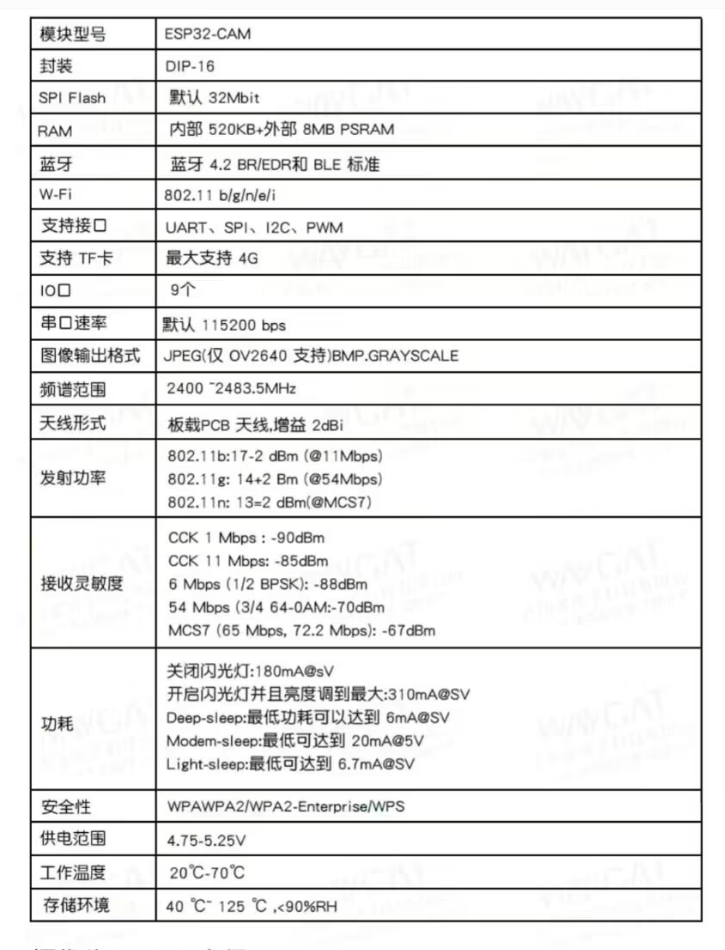
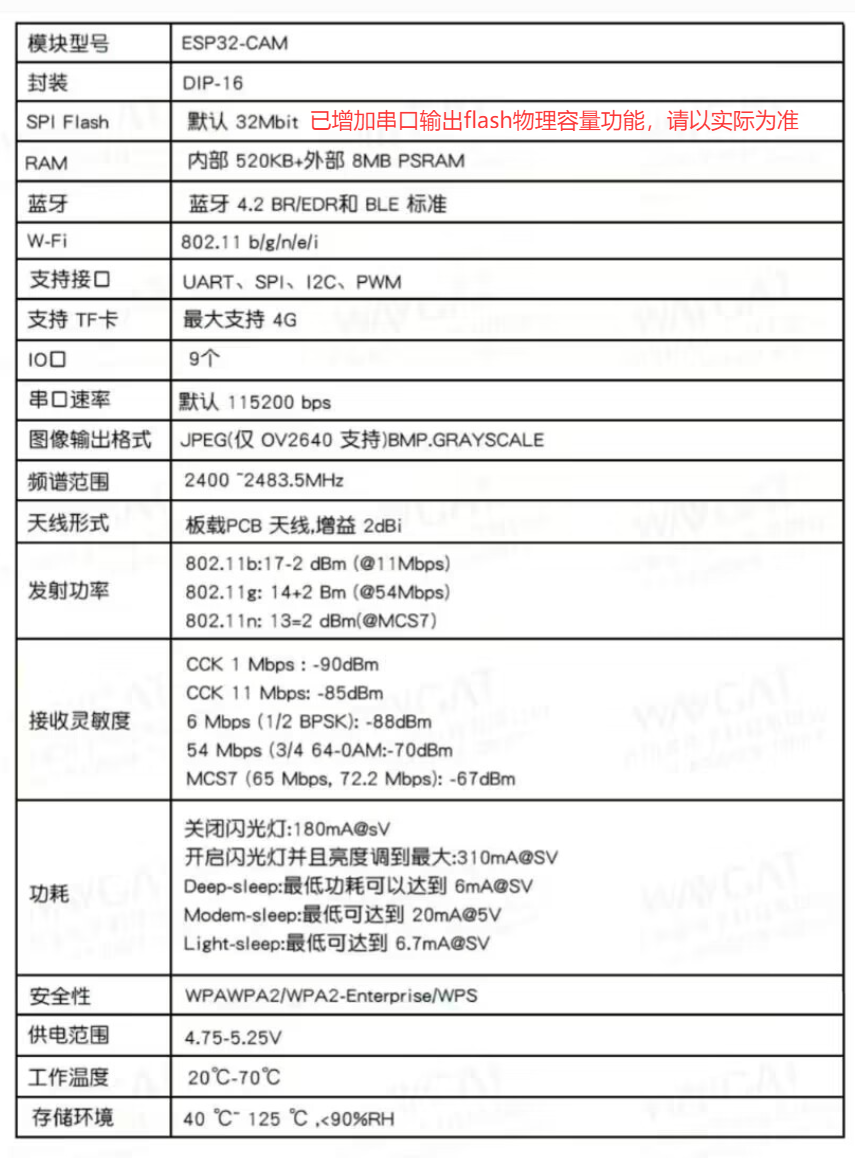
feat: 解决ESP32-CAM Flash容量配置问题并完善README文档
## 主要变更内容

### 1. 解决ESP32-CAM Flash容量相关问题
- 修复分区表总大小超出Flash容量限制问题（2.1MB > 2MB）
- 解决应用程序大小超出factory分区分配空间问题（1.04MB > 1MB）
- 修复ESP-IDF v5.5中spi_flash_get_chip_size隐式声明问题，迁移到新API esp_flash_get_physical_size
- 统一分区表格式，使用十六进制定义容量

### 2. 完善README文档
- 添加详细的分区表配置说明，包括问题描述和解决方案
- 增加PSRAM配置说明，解决摄像头初始化失败问题
- 更新快速上手指南，包含完整的编译烧录前配置步骤
- 补充硬件参数详细信息和注意事项

diff --git a/esp32cam_firmware/main/http_server.c b/esp32cam_firmware/main/http_server.c
@@ -81,11 +81,11 @@ void http_server_start(void) {
         httpd_register_uri_handler(server, &video_uri);
 
         // v5.5兼容的IP地址获取方式
-        esp_netif_t *sta_netif = esp_netif_get_handle_from_ifkey("WIFI_STA_DEF");
+       esp_netif_t *sta_netif = esp_netif_get_handle_from_ifkey("WIFI_STA_DEF");
         if (sta_netif != NULL) {
             esp_netif_ip_info_t ip_info;
             esp_netif_get_ip_info(sta_netif, &ip_info);
-            ESP_LOGI(TAG, "局域网访问地址: http://" IPSTR, IP2STR(&ip_info.ip), HTTP_SERVER_PORT);
+            ESP_LOGI(TAG, "局域网访问地址: http://" IPSTR ":%d", IP2STR(&ip_info.ip), HTTP_SERVER_PORT);
         } else {
             ESP_LOGE(TAG, "无法获取WiFi接口信息");
         }

diff --git a/esp32cam_firmware/main/camera.c b/esp32cam_firmware/main/camera.c
@@ -27,11 +27,11 @@ esp_err_t camera_init_custom(void) {
         .ledc_timer = LEDC_TIMER_0,
         .ledc_channel = LEDC_CHANNEL_0,
         .pixel_format = PIXFORMAT_JPEG,
-        .frame_size = FRAMESIZE_XGA,
+        .frame_size = FRAMESIZE_SVGA,
         /*FRAMESIZE_QVGA (320x240)，FRAMESIZE_VGA (640x480) ，FRAMESIZE_SVGA (800x600)，FRAMESIZE_XGA (1024x768)- 当前设置*/
-        .jpeg_quality = 50,  // JPEG质量30-50，平衡质量与性能
+        .jpeg_quality = 30,  // JPEG质量30-50，平衡质量与性能
         .fb_count = 2,       // 双缓冲减少卡顿
-        .grab_mode = CAMERA_GRAB_WHEN_EMPTY,
+        .grab_mode = CAMERA_GRAB_LATEST,
     };
     
     ESP_LOGI(TAG, "开始初始化摄像头...");

diff --git a/esp32cam_firmware/main/main.c b/esp32cam_firmware/main/main.c
@@ -74,7 +74,7 @@ void app_main(void) {
     ESP_LOGI(TAG, "剩余容量（未分配）: %u 字节 (%.2f MB)", 
              flash_free_size, (float)flash_free_size / (1024 * 1024));
 
-    // 后续原有逻辑（WiFi、摄像头、服务器初始化）
+    //（WiFi、摄像头、服务器初始化）
     wifi_init();
 
     esp_err_t cam_err = camera_init_custom();

diff --git a/esp32cam_firmware/main/wifi.h b/esp32cam_firmware/main/wifi.h
@@ -1,9 +1,9 @@
 #ifndef WIFI_H
 #define WIFI_H
 
-// WiFi配置
-#define WIFI_SSID "Redmi Note 12 Turbo"
-#define WIFI_PWD "88888888"
+// // WiFi配置
+#define WIFI_SSID "YOUR_WIFI_NAME"
+#define WIFI_PWD "YOUR_WIFI_PASSWORD" //若 WiFi 无密码，将WIFI_PWD ""引号内留空即可
 
 // WiFi连接配置
 #define WIFI_MAXIMUM_RETRY 5

diff --git a/esp32cam_firmware/main/http_server.h b/esp32cam_firmware/main/http_server.h
@@ -2,9 +2,9 @@
 #define HTTP_SERVER_H
 
 // HTTP服务器配置
-#define HTTP_SERVER_PORT 8080
-#define HTTP_MAX_OPEN_SOCKETS 5
-#define VIDEO_FPS 30
+#define HTTP_SERVER_PORT 8080 //端口号
+#define HTTP_MAX_OPEN_SOCKETS 1 //最大并发连接数
+#define VIDEO_FPS 30 //帧率
 
 void http_server_start(void);
 

diff --git a/README.md b/README.md
@@ -1,32 +1,126 @@
-# _Sample project_
+# ESP32-CAM + OV2640 轻量监控系统 📹
 
-(See the README.md file in the upper level 'examples' directory for more information about examples.)
+## 展示图
+> - [http视频流测试图](docs\images\esp32cam开发板参数图\http视频流测试图.png)
 
-This is the simplest buildable example. The example is used by command `idf.py create-project`
-that copies the project to user specified path and set it's name. For more information follow the [docs page](https://docs.espressif.com/projects/esp-idf/en/latest/api-guides/build-system.html#start-a-new-project)
+## 项目简介 ✨
+本仓库基于 ESP32-CAM 开发板与 OV2640 摄像头，实现了一套低成本轻量监控系统，支持局域网实时监控、公网访问（内网穿透）及 MQTT 远程控制功能。作为大三计算机专业学生的嵌入式练手项目，代码注重实战性与可维护性，适合作为嵌入式 / 物联网方向的简历项目案例。
 
 
+## 硬件参数速览 📊
 
-## How to use example
-We encourage the users to use the example as a template for the new projects.
-A recommended way is to follow the instructions on a [docs page](https://docs.espressif.com/projects/esp-idf/en/latest/api-guides/build-system.html#start-a-new-project).
+> - [esp32cam外观图](docs\images\esp32cam开发板参数图\esp32cam外观图.jpg)
+### 🖥 ESP32-CAM 模块核心参数
+- （这里是我所购买的esp32cam模块参数，请以自己的开发板为准）
+| 特性 | 详情 |
+|------|------|
+| 处理器 | 双核240MHz ESP32，支持蓝牙4.2 + BLE 🛜 |
+| 存储配置 | 4Mb SPI Flash +520kB RAM + 4MB PSRAM (超大扩展内存) 💾 |
+| WiFi性能 | 2.4GHz频段，支持802.11b/g/n，板载2dBi天线 📶 |
+| 功耗控制 | Deep-sleep模式最低6mA，节能小能手 🌙 |
+| 扩展接口 | 支持TF卡(最大4GB)、UART/SPI/I2C等 🔌 |
+| 供电要求 | 4.75-5.25V，≥1A电源适配器，⚠须注意：输入电源低于5V2A时，图片会有几率出现水纹 ⚡ |
+> 完整硬件参数图：  
+> - [ESP32-CAM开发板简介](docs\images\esp32cam开发板参数图\简介与特点.png)  
+> - [ESP32-CAM开发板参数图](docs\images\esp32cam开发板参数图\详细参数表(实测Flash为4MB).png) 
 
-## Example folder contents
+### 📸 OV2640 摄像头核心参数
+| 特性 | 详情 |
+|------|------|
+| 最高分辨率 | UXGA(1600×1200)@15fps 🚀 |
+| 主流配置 | SVGA(800×600) / VGA(640×480)|
+| 最大帧率 |UXGA(1600*1200)@15 帧；SVGA(800*600)@30帧；CIF(352*288)@60帧 |
+| 输出格式 | 支持JPEG/RGB/YUV等，本项目用JPEG优化传输 📦 |
+| 镜头参数 | F2.0光圈 + 78°广角 + 3.6mm焦距 🔍 |
+| 接口类型 | 8位数据总线 + SCCB控制接口 (类I²C) |
+> 完整硬件参数图：  
+> - [OV2640摄像头参数图](docs\images\esp32cam开发板参数图\OV2640摄像头参数.png)
+> - [OV2640摄像头介绍与特点](docs\images\esp32cam开发板参数图\OV2640摄像头介绍与特点.png)  
 
-The project **sample_project** contains one source file in C language [main.c](main/main.c). The file is located in folder [main](main).
 
-ESP-IDF projects are built using CMake. The project build configuration is contained in `CMakeLists.txt`
-files that provide set of directives and instructions describing the project's source files and targets
-(executable, library, or both). 
+## 固件功能清单 🚀
 
-Below is short explanation of remaining files in the project folder.
+### 核心功能 (已实现)
+- 📹 摄像头采集：固定VGA(640×480)分辨率，JPEG格式输出
+- 🔗 WiFi连接：STA模式自动重连(5次重试)，成功后打印IP
+- 🌐 HTTP服务：8080端口提供视频流，仅支持1台设备查看
 
+### 扩展功能 (待开发)
+- 🌍 内网穿透：Ngrok实现公网访问 (Ngrok免费版已测试完成，部署过程之后完善)
+- 📱 微信小程序：开发配套小程序客户端，支持视频流查看、截图指令发送
+- 📸 远程截图：访问`/snapshot`保存图片到TF卡
+- 📡 MQTT控制：接收指令开关摄像头，降低待机功耗
+
+## 开发环境 🛠
+- 操作系统：Windows 11
+- 开发工具：VSCode
+- 框架版本：ESP-IDF v5.5.0  
+  👉 [官方安装教程https://docs.espressif.com/projects/esp-idf/zh_CN/release-v5.5/esp32/get-started/index.html#get-started-how-to-get-esp-idf](https://docs.espressif.com/projects/esp-idf/zh_CN/release-v5.5/esp32/get-started/index.html#get-started-how-to-get-esp-idf)
+
+## 快速上手 🚀
+1. 克隆仓库并进入固件目录(使用ESP-IDF终端)
+   ```bash
+   git clone <仓库地址>
+   cd esp32-cam/esp32cam_firmware
+   ```
+
+2. 配置WiFi参数，修改http视频流端口号和帧率（使用VSCODE）
+ 在此路径文件中修改wifi配置：esp32cam_firmware\main\wifi.h
+ 修改http视频流配置：esp32cam_firmware\main\http_server.h
+
+
+3. 分区表配置（重要！否则会编译失败）
+由于代码未优化，生成的.bin固件大小可能超过1MB，但默认分区表factory分区容量只有1MB，会导致如下报错：
+```cpp
+Error: app partition is too small for binary camera_test.bin size 0x10b070: Part 'factory' 0/0 @ 0x10000 size 0x100000 (overflow 0xb070)
+/*
+报错信息核心含义：
+    应用程序二进制文件 camera_test.bin 大小为 0x10b070 (约1.045MB)
+    factory 分区大小为 0x100000 (1MB)，起始地址 0x10000
+    二进制文件大小超过分区容量，溢出 0xb070 字节 (45,168字节)
+*/
 ```
-├── CMakeLists.txt
-├── main
-│   ├── CMakeLists.txt
-│   └── main.c
-└── README.md                  This is the file you are currently reading
+**解决方案**：
+
+- 第一步(本仓库已实现，直接做第二步)：在项目根目录新建 `partitions.csv`文件并添加以下内容，将factory分区容量增加至1.5MB：
+```csv
+# Name,   Type, SubType, Offset,  Size, Flags
+nvs,      data, nvs,     0x9000,  0x6000,
+phy_init, data, phy,     0xf000,  0x1000,
+factory,  app,  factory, 0x10000, 0x150000,
 ```
-Additionally, the sample project contains Makefile and component.mk files, used for the legacy Make based build system. 
-They are not used or needed when building with CMake and idf.py.
+- 第二步：通过menuconfig指定自定义分区表 运行命令打开图形界面：
+
+```bash
+idf.py menuconfig
+```
+导航路径：Partition Table → 选择Custom partition table CSV → 在Custom partition CSV file中输入partitions.csv，保存退出。
+
+4. 启用PSRAM配置（解决摄像头初始化失败问题）
+若串口日志中出现`PSRAM可用: 0 字节`或`摄像头初始化失败`，需配置启用PSRAM：  
+运行以下命令打开图形配置界面：
+```bash
+idf.py menuconfig
+```
+依次导航并开启以下设置：  
+ 路径：`Component config → ESP32-specific config → Support for external, SPI-connected RAM`（启用外部SPI连接的RAM支持）  
+ 路径：`Component config → SPI RAM config → Initialize SPI RAM when booting the ESP32`（启动时初始化SPI RAM） 
+
+5. 编译烧录 (使用ESP-IDF终端，并替换COMx为实际串口)
+   ```bash
+   idf.py -p COMx flash monitor
+   ```
+
+6. 浏览器访问串口打印的IP地址即可查看视频流 👀
+
+
+
+## 注意事项 ⚠
+- 必须使用≥1A电源，否则摄像头可能初始化失败 ⚡
+- 仅支持2.4GHz WiFi，5GHz频段无法连接 📶
+- 扩展功能开发前建议检查Flash剩余容量(初始化时串口会输出剩余Flash物理容量) 💾
+
+## 关于项目 📝
+这是我作为大三计算机专业学生的嵌入式练手项目，主打一个"从0到1"的实战过程。目前只实现http视频流实时监控功能，后续会持续迭代扩展功能。如果对你有帮助，欢迎star🌟 鼓励一下~
+
+有任何问题欢迎提Issue，一起交流学习呀！😊
